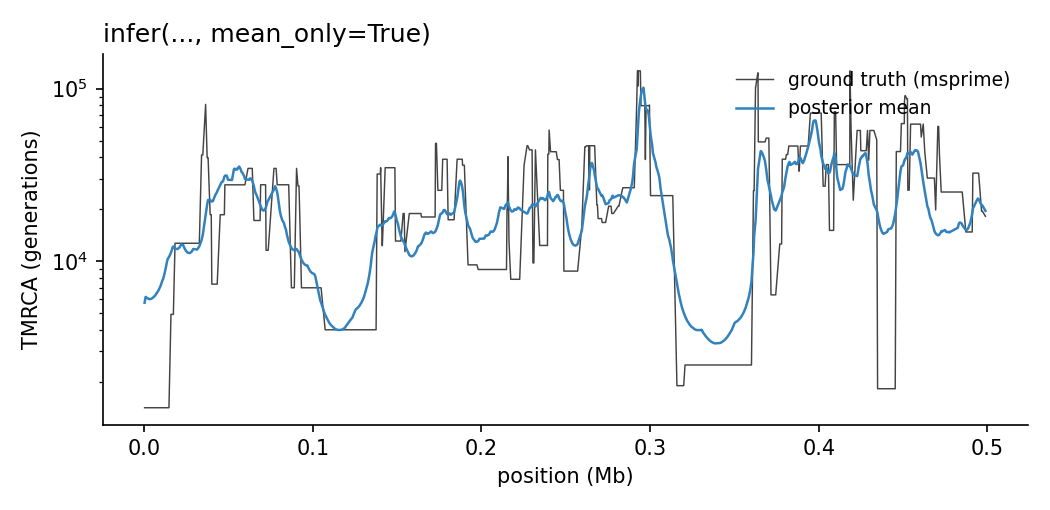
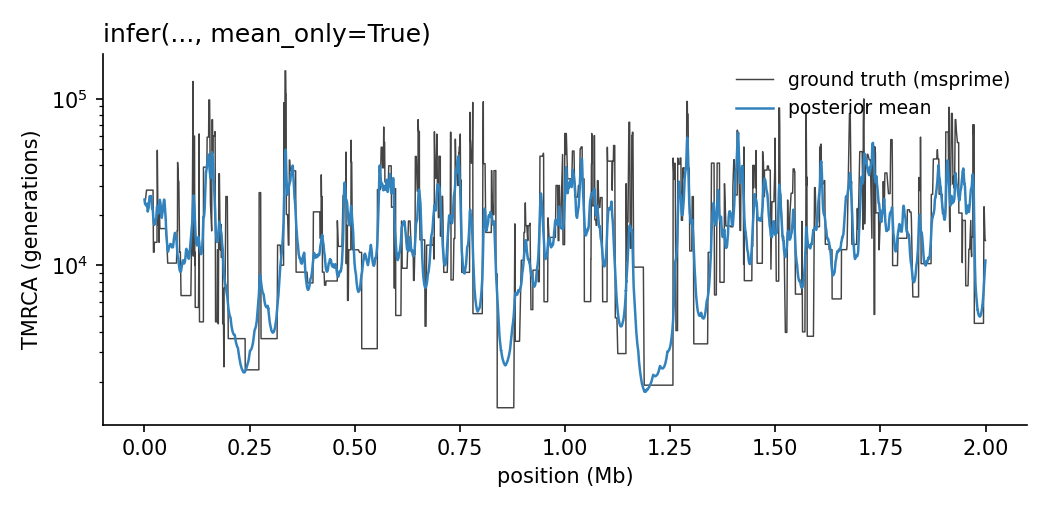
docs: regenerate example figures with longer simulation
Increases the simulated sequence length from 500 kb to 2 Mb so each pair
sees ~3.5k segregating sites instead of ~1k. With more SNPs the per-site
Gamma posteriors actually concentrate around the truth and the picked
'tight' / 'typical' / 'broad' sites become representative of how the
method behaves on realistic inputs. Top panels of all three figures now
track msprime ground truth tightly across the chromosome.

Bottom-row PDF subplots: clip x at 0 (TMRCA can't be negative), set
ylim to [0, max_density], move the truth marker to a small triangle
above each density curve (and only draw it when the truth falls inside
the plotted ±4-sigma window). The bottom panels are about distribution
shape now, not accuracy -- the top panel carries the mean-vs-truth
comparison, which the longer simulation makes much cleaner.

diff --git a/docs/_scripts/make_examples.py b/docs/_scripts/make_examples.py
@@ -23,10 +23,14 @@ from scipy.stats import gamma
 import msprime
 import tmrca_cu
 
-# Reproducibility / cosmetic constants
+# Reproducibility / cosmetic constants. The 2 Mb / 8 samples panel gives
+# each pair ~3-4k segregating sites, which is enough for the per-site Gamma
+# posteriors to actually concentrate. With less data the picked "tight"
+# sites land on confidently-wrong estimates and the figure misrepresents
+# how the method behaves on realistic inputs.
 SEED = 42
 N_SAMPLES = 8
-SEQ_LEN = 500_000
+SEQ_LEN = 2_000_000
 RECOMB_RATE = 1e-8
 MUT_RATE = 1.25e-8
 NE = 10_000.0
@@ -147,6 +151,9 @@ def plot_posterior(out_dir, pos_mb, truth, mean, alpha, beta):
     ax_top.legend(frameon=False, loc="upper right", fontsize=8, ncol=2)
 
     # ----- bottom panels: actual Gamma PDF at the three picked sites -----
+    # These panels are about the *shape* of the posterior that
+    # return_posterior=True exposes, not about accuracy. The top panel
+    # already carries the mean-vs-truth comparison.
     for ax, idx, color, label in zip(ax_bot, pick_idx, pick_colors, pick_labels):
         a_i = float(alpha[idx])
         b_i = float(beta[idx])
@@ -154,7 +161,6 @@ def plot_posterior(out_dir, pos_mb, truth, mean, alpha, beta):
         t_i = float(truth[idx])
         scale_i = 2.0 * NE / b_i
         post = gamma(a_i, scale=scale_i)
-        # Plot range: ±4 sigma around the mean, clipped at 0
         sd = post.std()
         t_min = max(0.0, m_i - 4 * sd)
         t_max = m_i + 4 * sd
@@ -163,10 +169,19 @@ def plot_posterior(out_dir, pos_mb, truth, mean, alpha, beta):
 
         ax.fill_between(t_lin, 0, density, color=color, alpha=0.25, lw=0)
         ax.plot(t_lin, density, color=color, lw=1.4)
-        ax.axvline(m_i, color=color, lw=1.0, ls="-",
+        ax.axvline(m_i, color=color, lw=1.1, ls="-",
                    label=f"mean = {m_i:.0f}")
-        ax.axvline(t_i, color="#444", lw=0.9, ls=":",
-                   label=f"truth = {t_i:.0f}")
+        # Truth as a small unobtrusive grey tick at the top of the axes,
+        # only when it falls inside the plotted range. The top panel is
+        # the primary place to compare mean vs truth.
+        if t_min <= t_i <= t_max:
+            y_top = density.max() * 1.04
+            ax.scatter(
+                [t_i], [y_top], marker="v", s=18, color="#444", zorder=5,
+                clip_on=False, label=f"truth = {t_i:.0f}",
+            )
+        ax.set_xlim(t_min, t_max)
+        ax.set_ylim(bottom=0.0)
         ax.set_xlabel("TMRCA (generations)", fontsize=8)
         ax.set_ylabel("density", fontsize=8)
         ax.set_title(
@@ -178,7 +193,6 @@ def plot_posterior(out_dir, pos_mb, truth, mean, alpha, beta):
         ax.spines["right"].set_visible(False)
         ax.set_yticks([])
         ax.legend(frameon=False, fontsize=7, loc="upper right")
-        # Format x ticks compactly
         ax.ticklabel_format(axis="x", style="sci", scilimits=(0, 4))
         ax.xaxis.get_offset_text().set_fontsize(7)
 